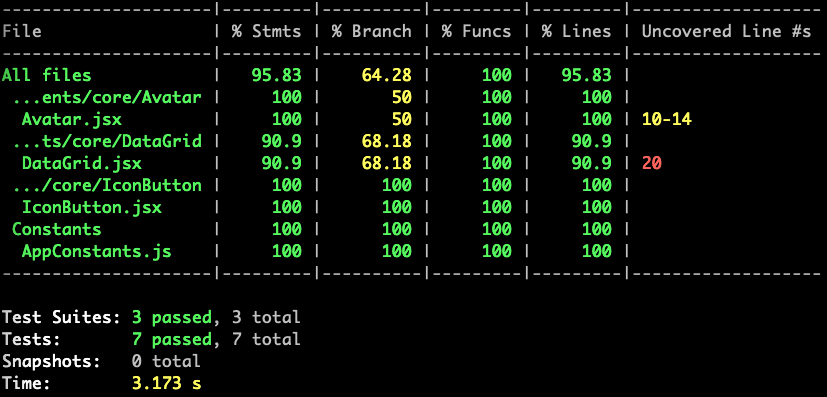
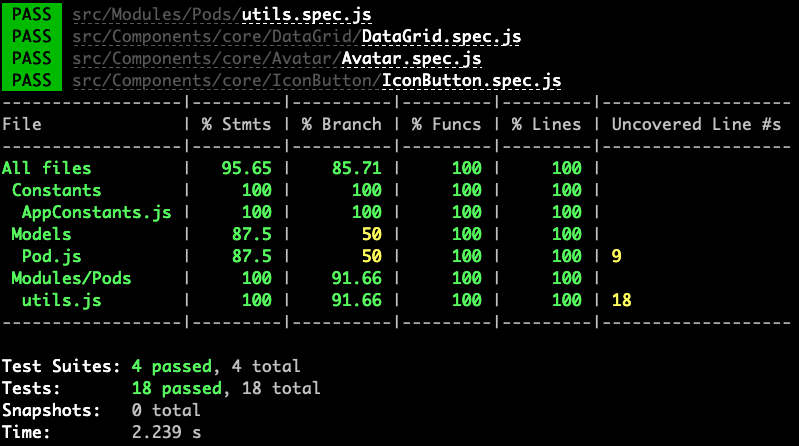
Utils unit test cases

Changed region(s): [[0.0, 0.0, 0.9912, 0.7254], [0.0, 0.7859, 0.4205, 0.9975], [0.2403, 0.3929, 0.2703, 0.4232]]

diff --git a/src/Modules/Pods/utils.spec.js b/src/Modules/Pods/utils.spec.js
@@ -1,0 +1,100 @@
+import AppConstants from '../../Constants/AppConstants';
+import Pod from '../../Models/Pod';
+import { filter, sort } from './utils';
+
+const pods = new Array(10).fill(0).map((_, index) => new Pod({
+  metadata: {
+    uid: `UID_${index}`,
+    name: `Name_${index % 2 === 0 ? 'even' : 'odd'}_${index}`,
+    namespace: `Namespace_${index}`,
+    creationTimestamp: Date.now()
+  },
+  status: {
+    phase: index % 2 === 0 ? AppConstants.POD_STATUS.running : AppConstants.POD_STATUS.success
+  }
+}));
+
+test('filter() should not filter if search criteria are not available', () => {
+  const res = filter(pods);
+  expect(res).toHaveLength(pods.length);
+  expect(res).toEqual(pods);
+});
+
+test('filter() should filter by status', () => {
+  const res = filter(pods, 'status', AppConstants.POD_STATUS.running);
+  expect(res).toHaveLength(5);
+  expect(res).not.toEqual(pods);
+
+  const res1 = filter(pods, 'status', AppConstants.POD_STATUS.success);
+  expect(res1).toHaveLength(5);
+  expect(res1).not.toEqual(pods);
+});
+
+test('filter() should return empty result for not matching status', () => {
+  const res = filter(pods, 'status', AppConstants.POD_STATUS.failed);
+  expect(res).toHaveLength(0);
+});
+
+test('filter() should filter by name', () => {
+  const res = filter(pods, 'name', 'Name_even');
+  expect(res).toHaveLength(5);
+  expect(res).not.toEqual(pods);
+
+  const res1 = filter(pods, 'name', 'Name_odd');
+  expect(res1).toHaveLength(5);
+  expect(res1).not.toEqual(pods);
+});
+
+test('filter() should return empty result for not matching name', () => {
+  const res = filter(pods, 'name', 'Some unknown name');
+  expect(res).toHaveLength(0);
+});
+
+test('filter() should return empty result for invalid type', () => {
+  const res = filter(pods, 'invalid', AppConstants.POD_STATUS.success);
+  expect(res).toHaveLength(0);
+});
+
+test('sort() should sort by name column Ascending', () => {
+  const res = sort(pods, 'name', AppConstants.SORT_ORDER.Ascending);
+  expect(res).toHaveLength(pods.length);
+  expect(res[0].name).toContain('Name_even');
+  expect(res[4].name).toContain('Name_even');
+  expect(res[5].name).toContain('Name_odd');
+  expect(res[9].name).toContain('Name_odd');
+});
+
+test('sort() should sort by name column Descending', () => {
+  const res = sort(pods, 'name', AppConstants.SORT_ORDER.Descending);
+  expect(res).toHaveLength(pods.length);
+  expect(res[0].name).toContain('Name_odd');
+  expect(res[4].name).toContain('Name_odd');
+  expect(res[5].name).toContain('Name_even');
+  expect(res[9].name).toContain('Name_even');
+});
+
+test('sort() should sort by status column Ascending', () => {
+  const res = sort(pods, 'status', AppConstants.SORT_ORDER.Ascending);
+  expect(res).toHaveLength(pods.length);
+  expect(res[0].status).toEqual(AppConstants.POD_STATUS.running);
+  expect(res[4].status).toEqual(AppConstants.POD_STATUS.running);
+  expect(res[5].status).toEqual(AppConstants.POD_STATUS.success);
+  expect(res[9].status).toEqual(AppConstants.POD_STATUS.success);
+});
+
+test('sort() should sort by status column Descending', () => {
+  const res = sort(pods, 'status', AppConstants.SORT_ORDER.Descending);
+  expect(res).toHaveLength(pods.length);
+  expect(res[0].status).toEqual(AppConstants.POD_STATUS.success);
+  expect(res[4].status).toEqual(AppConstants.POD_STATUS.success);
+  expect(res[5].status).toEqual(AppConstants.POD_STATUS.running);
+  expect(res[9].status).toEqual(AppConstants.POD_STATUS.running);
+});
+
+test('sort() should not sort for invalid column name', () => {
+  const res = sort(pods, 'invalid', AppConstants.SORT_ORDER.Descending);
+  expect(res).toHaveLength(pods.length);
+  pods.forEach((pod, index) => {
+    expect(res[index].id).toEqual(pod.id);
+  });
+});

diff --git a/src/Modules/Pods/utils.js b/src/Modules/Pods/utils.js
@@ -11,7 +11,7 @@ export function filter (pods, searchByCol, searchText) {
     return pods.filter(pod => pod.status === searchText);
 
   default:
-    break;
+    return [];
   }
 }
 
